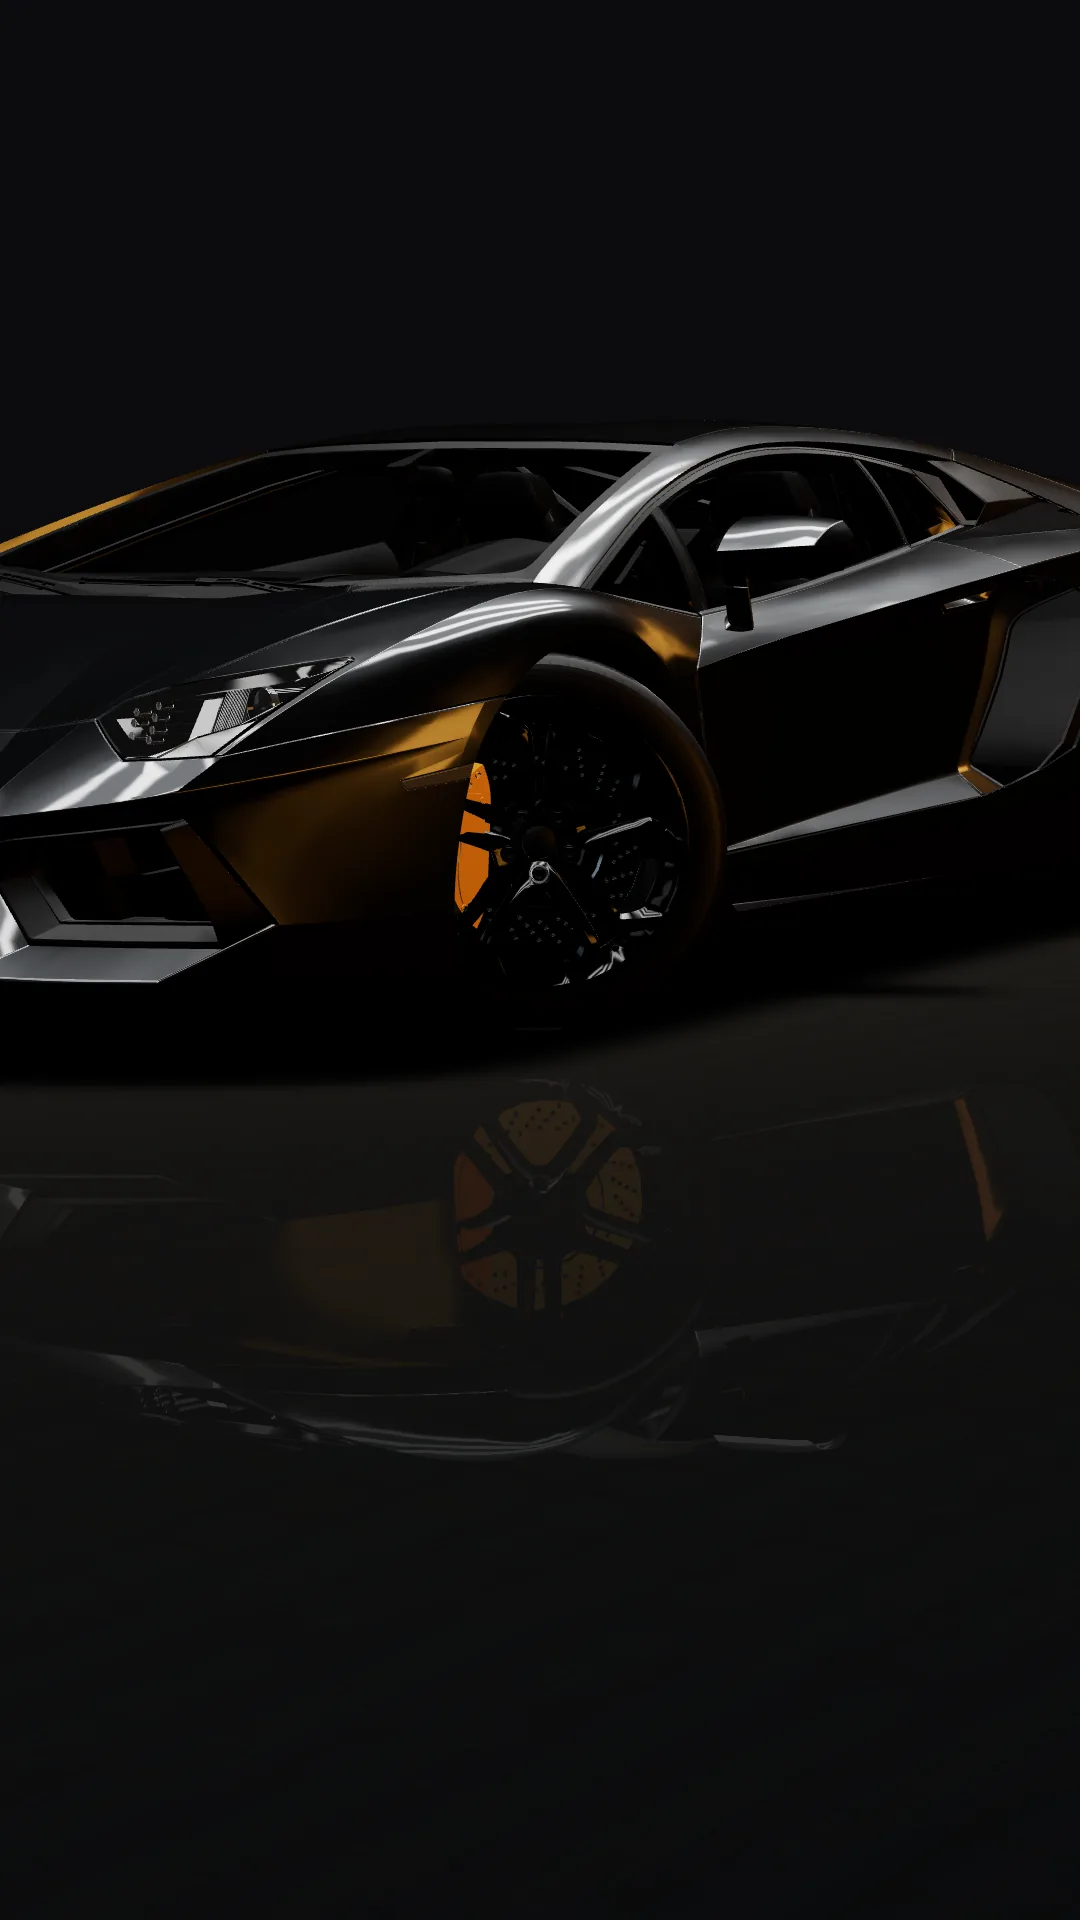
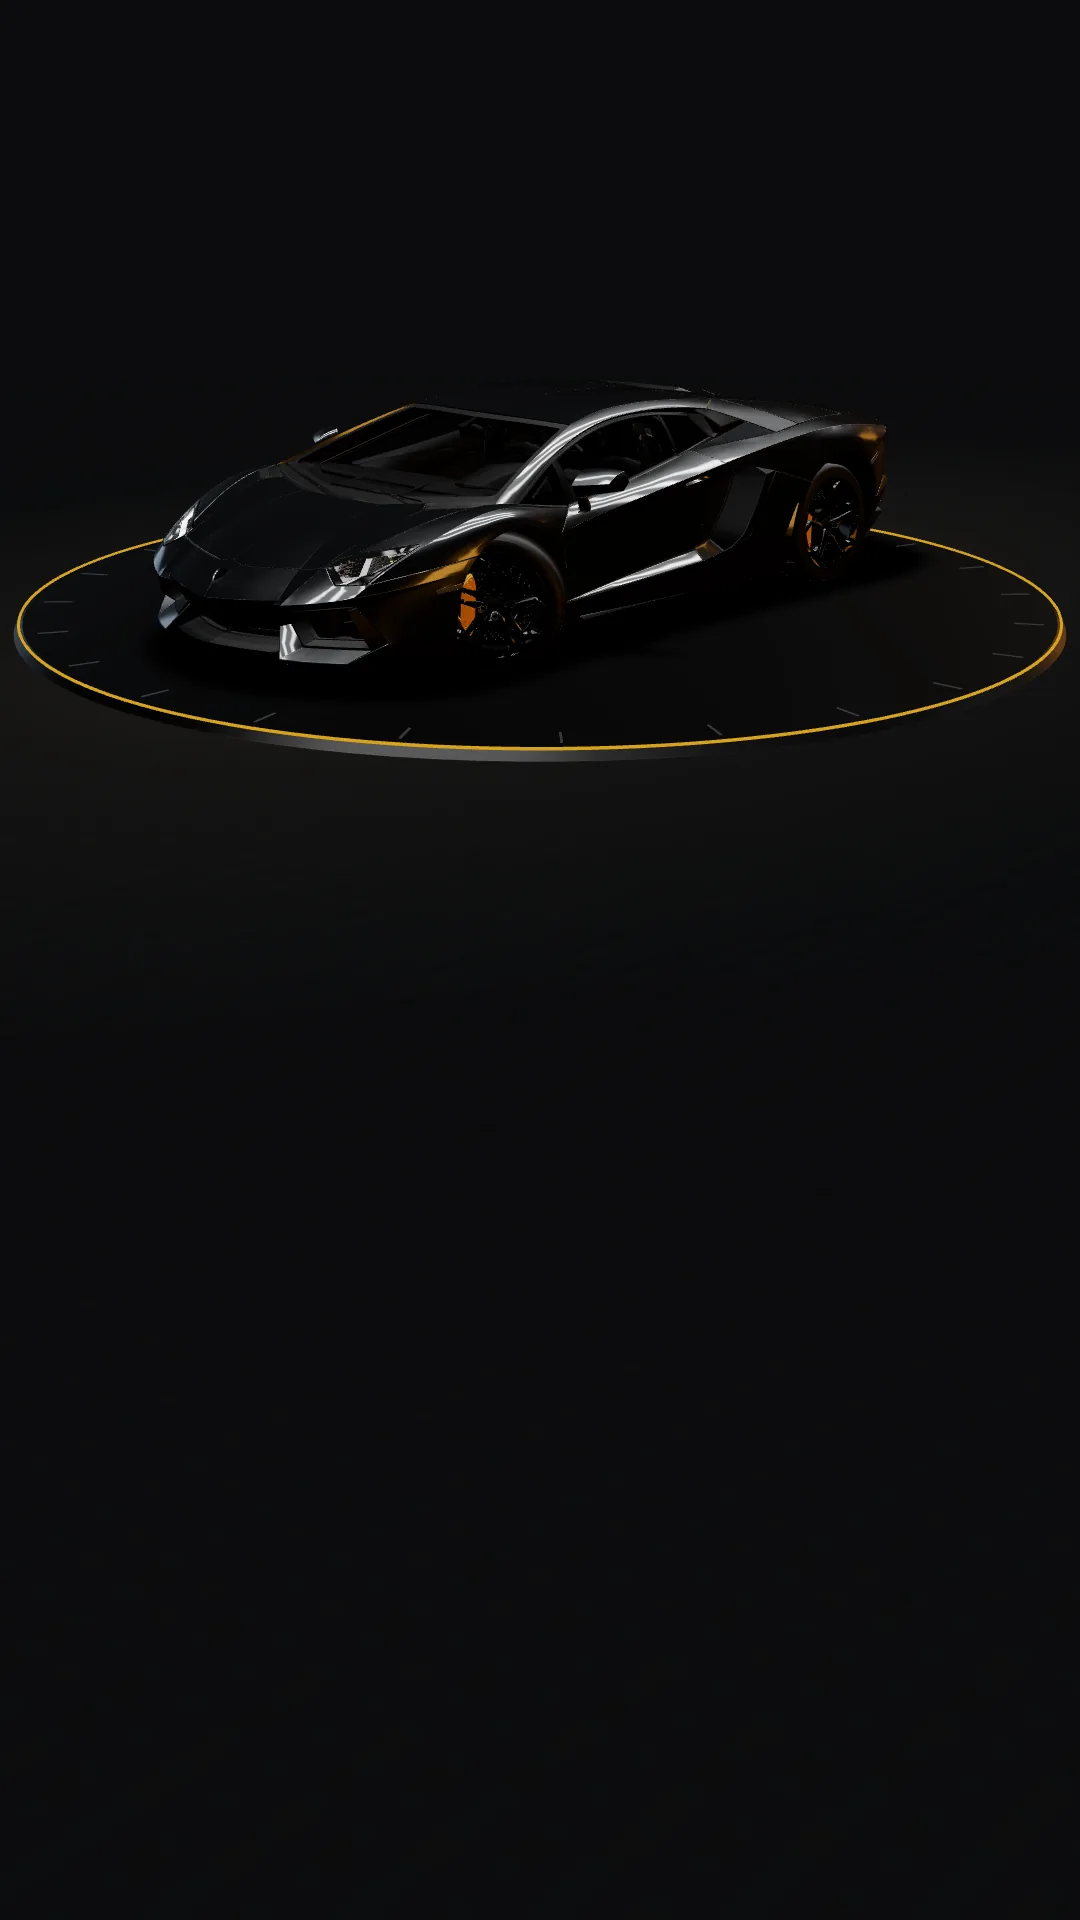
Hero 3D com plataforma giratória e portas em tesoura
O carro gira numa plataforma de showroom (uma volta a cada 30 s) e abre e fecha as
portas em ciclo. Câmera do celular mais afastada, carro acima do título. Imagens de
abertura renderizadas de novo para coincidir com o enquadramento do 3D.

Claude-Session: https://claude.ai/code/session_01DeJyWLWaZDcy7MwLK6b82M

diff --git a/index.html b/index.html
@@ -563,7 +563,8 @@ p { margin: 0; }
 } }
 </script>
 <script type="module">
-// Live 3D hero. The rendered poster image stays underneath until the first 3D frame is ready.
+// Live 3D hero: the car turns on a showroom turntable and opens its scissor doors in a loop.
+// The rendered poster image stays underneath until the first 3D frame is ready.
 import * as THREE from "three";
 import { GLTFLoader } from "three/addons/loaders/GLTFLoader.js";
 import { DRACOLoader } from "three/addons/loaders/DRACOLoader.js";
@@ -574,16 +575,76 @@ const hero = document.getElementById("inicio");
 const small = () => innerWidth <= 760;
 if (canvas && !matchMedia("(prefers-reduced-motion: reduce)").matches) { try { start(); } catch (e) { /* the poster image stays */ } }
 
+// Splits the "Obj_Side_Doors" node into a left and a right door hung on hinges.
+// Everything is baked into the car root's own space (x = length, y = up, z = width),
+// so the split and the hinge do not depend on how the node was exported.
+// Scissor doors swing up around a lateral axis near the front of the door, tilting slightly outward.
+function makeDoors(THREE, root) {
+  const node = root.getObjectByName("Obj_Side_Doors");
+  if (!node) return null;
+  const parts = [];
+  node.traverse((o) => { if (o.isMesh) parts.push(o); });
+  if (!parts.length) return null;
+  root.updateMatrixWorld(true);
+  const rootInv = root.matrixWorld.clone().invert();
+  const baked = parts.map((p) => ({ geo: p.geometry.clone().applyMatrix4(rootInv.clone().multiply(p.matrixWorld)), mat: p.material, order: p.renderOrder }));
+
+  function split(g, sign) {
+    const pos = g.attributes.position, idx = g.index ? g.index.array : null;
+    const n = idx ? idx.length : pos.count;
+    const groups = g.groups.length ? g.groups : [{ start: 0, count: n, materialIndex: 0 }];
+    const out = [], ng = [];
+    for (const gr of groups) {
+      const start = out.length;
+      for (let k = gr.start; k < gr.start + gr.count; k += 3) {
+        const a = idx ? idx[k] : k, b = idx ? idx[k + 1] : k + 1, c = idx ? idx[k + 2] : k + 2;
+        if (Math.sign(pos.getZ(a) + pos.getZ(b) + pos.getZ(c)) === sign) out.push(a, b, c);
+      }
+      if (out.length > start) ng.push({ start, count: out.length - start, materialIndex: gr.materialIndex });
+    }
+    const geo = new THREE.BufferGeometry();
+    for (const name in g.attributes) geo.setAttribute(name, g.attributes[name]);
+    geo.setIndex(out);
+    ng.forEach((x) => geo.addGroup(x.start, x.count, x.materialIndex));
+    geo.computeBoundingBox(); geo.computeBoundingSphere();
+    return geo;
+  }
+
+  const bb = new THREE.Box3();
+  for (const b of baked) { b.geo.computeBoundingBox(); bb.union(b.geo.boundingBox); }
+  const hinge = new THREE.Vector3(bb.min.x + (bb.max.x - bb.min.x) * 0.04, bb.min.y + (bb.max.y - bb.min.y) * 0.6, 0);
+
+  const doors = [];
+  for (const sign of [1, -1]) {
+    const pivot = new THREE.Object3D();
+    pivot.position.copy(hinge);
+    for (const b of baked) {
+      const m = new THREE.Mesh(split(b.geo, sign), b.mat);
+      m.position.copy(hinge).negate();
+      m.renderOrder = b.order;
+      pivot.add(m);
+    }
+    root.add(pivot);
+    doors.push({ pivot, sign });
+  }
+  node.visible = false;
+  return {
+    hinge, bounds: bb,
+    set(t) { // 0 closed .. 1 open
+      const e = t * t * (3 - 2 * t);
+      for (const d of doors) d.pivot.rotation.set(0.14 * d.sign * e, 0, 1.12 * e);
+    },
+  };
+}
+
 function start() {
 const renderer = new THREE.WebGLRenderer({ canvas, antialias: true, powerPreference: "high-performance" });
-
 renderer.setPixelRatio(Math.min(devicePixelRatio, small() ? 1.25 : 1.5));
 renderer.toneMapping = THREE.ACESFilmicToneMapping;
 renderer.toneMappingExposure = 1.35;
 
-const BG = new THREE.Color("#0b0c0d");
 const scene = new THREE.Scene();
-scene.background = BG;
+scene.background = new THREE.Color("#0b0c0d");
 
 function studioEnv() {
   const env = new THREE.Scene();
@@ -612,13 +673,14 @@ function radial(stops, size = 512) {
   stops.forEach(([o, col]) => gr.addColorStop(o, col)); g.fillStyle = gr; g.fillRect(0, 0, size, size);
   const t = new THREE.CanvasTexture(c); t.colorSpace = THREE.SRGBColorSpace; return t;
 }
-if (!small()) {
+const mobile = small();
+if (!mobile) {
   const mirror = new Reflector(new THREE.CircleGeometry(30, 96), { color: 0x6a6a6a, textureWidth: 1024, textureHeight: 1024, clipBias: 0.003 });
   mirror.rotation.x = -Math.PI / 2; scene.add(mirror);
 }
 const veil = new THREE.Mesh(new THREE.CircleGeometry(30, 96), new THREE.MeshBasicMaterial({
-  map: small() ? radial([[0, "rgba(24,22,20,1)"], [0.4, "rgba(14,14,15,1)"], [1, "rgba(11,12,13,1)"]])
-               : radial([[0, "rgba(11,12,13,0.78)"], [0.16, "rgba(11,12,13,0.87)"], [0.4, "rgba(11,12,13,1)"], [1, "rgba(11,12,13,1)"]]),
+  map: mobile ? radial([[0, "rgba(24,22,20,1)"], [0.4, "rgba(14,14,15,1)"], [1, "rgba(11,12,13,1)"]])
+              : radial([[0, "rgba(11,12,13,0.78)"], [0.16, "rgba(11,12,13,0.87)"], [0.4, "rgba(11,12,13,1)"], [1, "rgba(11,12,13,1)"]]),
   transparent: true, depthWrite: false, toneMapped: false }));
 veil.rotation.x = -Math.PI / 2; veil.position.y = 0.002; scene.add(veil);
 const pool = new THREE.Mesh(new THREE.PlaneGeometry(14, 9), new THREE.MeshBasicMaterial({
@@ -626,11 +688,24 @@ const pool = new THREE.Mesh(new THREE.PlaneGeometry(14, 9), new THREE.MeshBasicM
   transparent: true, depthWrite: false, blending: THREE.AdditiveBlending, toneMapped: false }));
 pool.rotation.x = -Math.PI / 2; pool.position.y = 0.004; scene.add(pool);
 
+// showroom turntable: dark disc with a thin amber edge
+const stage = new THREE.Group(); scene.add(stage);
+const disc = new THREE.Mesh(new THREE.CylinderGeometry(2.85, 2.9, 0.05, 96), new THREE.MeshStandardMaterial({ color: 0x121314, metalness: 0.6, roughness: 0.35 }));
+disc.position.y = 0.025; stage.add(disc);
+const ring = new THREE.Mesh(new THREE.TorusGeometry(2.87, 0.008, 8, 160), new THREE.MeshBasicMaterial({ color: new THREE.Color("#f2a400").multiplyScalar(0.55) }));
+ring.rotation.x = Math.PI / 2; ring.position.y = 0.052; stage.add(ring);
+const marks = new THREE.Group();
+for (let i = 0; i < 24; i++) {
+  const tick = new THREE.Mesh(new THREE.BoxGeometry(0.16, 0.004, 0.012), new THREE.MeshBasicMaterial({ color: 0x3a3b3d }));
+  const a = (i / 24) * Math.PI * 2; tick.position.set(Math.cos(a) * 2.7, 0.052, Math.sin(a) * 2.7); tick.rotation.y = -a; marks.add(tick);
+}
+stage.add(marks);
+
 const camera = new THREE.PerspectiveCamera(27, 1, 0.05, 120);
-// framing that matches the poster renders: [distance, height, azimuth, look, fov, view shift]
+// desktop matches the poster render; phone sits farther back so the whole car and turntable fit
 const FRAME = {
-  wide: { pos: new THREE.Vector3(-5.0, 0.62, 3.35), look: new THREE.Vector3(0.15, 0.5, 0), fov: 27, shift: [-0.13, 0.03] },
-  tall: { pos: new THREE.Vector3(-5.9, 0.95, 4.4), look: new THREE.Vector3(-0.1, 0.45, 0), fov: 34, shift: [0, 0.12] },
+  wide: { pos: new THREE.Vector3(-5.0, 0.62, 3.35), look: new THREE.Vector3(0.15, 0.5, 0), fov: 27, shift: [-0.22, 0.03] },
+  tall: { pos: new THREE.Vector3(-9.08, 3.0, 8.47), look: new THREE.Vector3(0, 0.4, 0), fov: 46, shift: [0, 0.22] },
 };
 let F = FRAME.wide, baseR = 0, baseAz = 0;
 function resize() {
@@ -639,7 +714,7 @@ function resize() {
   renderer.setSize(w, h, false);
   F = small() ? FRAME.tall : FRAME.wide;
   const d = F.pos.clone().sub(F.look);
-  baseR = Math.hypot(d.x, d.z); baseAz = Math.atan2(d.z, d.x);
+  baseR = Math.hypot(d.x, d.z) * (small() ? 1 : 1.22); baseAz = Math.atan2(d.z, d.x);
   camera.fov = F.fov; camera.aspect = w / h;
   camera.setViewOffset(w, h, F.shift[0] * w, F.shift[1] * h, w, h);
   camera.updateProjectionMatrix();
@@ -650,6 +725,7 @@ const paint = new THREE.MeshPhysicalMaterial({ color: "#2b2e31", metalness: 0.75
 const alloy = new THREE.MeshPhysicalMaterial({ color: "#0a0a0a", metalness: 0.9, roughness: 0.2, clearcoat: 0.6 });
 const caliper = new THREE.MeshStandardMaterial({ color: "#f2a400", metalness: 0.25, roughness: 0.35 });
 const lamps = [];
+let doors = null;
 
 const draco = new DRACOLoader();
 draco.setDecoderPath("https://cdn.jsdelivr.net/npm/three@0.170.0/examples/jsm/libs/draco/gltf/");
@@ -658,7 +734,7 @@ const loader = new GLTFLoader(); loader.setDRACOLoader(draco);
 let ready = false, visible = true, shownAt = 0;
 loader.load("/car.glb", (gltf) => {
   const m = gltf.scene; const S = 0.176;
-  m.scale.setScalar(S); m.position.x = 0.6 * S;
+  m.scale.setScalar(S); m.position.set(0.6 * S, 0.05, 0);
   m.traverse((o) => {
     if (!o.isMesh) return;
     const mats = Array.isArray(o.material) ? o.material : [o.material];
@@ -682,29 +758,44 @@ loader.load("/car.glb", (gltf) => {
     if (/^Obj_(Rim_T0A|Tyre|DiscRotor|WheelHub|Caliper)_F[LR]$/.test(o.name))
       o.quaternion.premultiply(new THREE.Quaternion().setFromAxisAngle(new THREE.Vector3(0, 1, 0), -0.3));
   });
-  scene.add(m);
+  stage.add(m);
+  try { doors = makeDoors(THREE, m); } catch (e) { doors = null; }
   resize();
   renderer.render(scene, camera);
   ready = true; shownAt = performance.now();
   requestAnimationFrame(() => { canvas.classList.add("on"); document.getElementById("badge3d")?.classList.add("on"); });
 }, undefined, () => {}); // on failure the poster image simply stays
 
-// pointer and scroll drive the camera a little; a slow drift keeps it alive
 let px = 0, py = 0, tx = 0, ty = 0;
 addEventListener("pointermove", (e) => { tx = e.clientX / innerWidth - 0.5; ty = e.clientY / innerHeight - 0.5; }, { passive: true });
 if ("IntersectionObserver" in window) new IntersectionObserver((es) => { visible = es[0].isIntersecting; }).observe(hero);
 
-const clock = new THREE.Clock();
+// choreography, in seconds after the 3D appears
+const SPIN = (Math.PI * 2) / 30;   // one full turn every 30 s
+const CYCLE = 14;                  // doors: open at 3 s, hold, close at 9 s, repeat
+function doorState(t) {
+  const k = ((t % CYCLE) + CYCLE) % CYCLE;
+  if (k < 3) return 0;
+  if (k < 4.6) return (k - 3) / 1.6;
+  if (k < 9) return 1;
+  if (k < 10.6) return 1 - (k - 9) / 1.6;
+  return 0;
+}
+let angle = 0, last = performance.now();
 renderer.setAnimationLoop(() => {
+  const now = performance.now();
+  const dt = Math.min((now - last) / 1000, 0.05); last = now;
   if (!ready || !visible || document.hidden) return;
-  const t = clock.getElapsedTime();
-  px += (tx - px) * 0.04; py += (ty - py) * 0.04;
+  const t = (now - shownAt) / 1000;
+  const ramp = Math.min(t / 2.5, 1);
+  angle += SPIN * dt * ramp * ramp;
+  stage.rotation.y = angle;
+  if (doors) doors.set(doorState(t - 0.5));
+  px += (tx - px) * 0.05; py += (ty - py) * 0.05;
   const scroll = Math.min(scrollY / innerHeight, 1);
-  const intro = Math.min((performance.now() - shownAt) / 2600, 1);
-  const ease = intro * intro * (3 - 2 * intro);
-  const az = baseAz + Math.sin(t * 0.18) * 0.1 * ease - px * 0.22 - scroll * 0.55;
-  const r = baseR * (small() ? 1 : 1.08) * (1 - 0.03 * ease) * (1 + scroll * 0.08);
-  camera.position.set(F.look.x + Math.cos(az) * r, F.pos.y + py * -0.18 + scroll * 0.5, F.look.z + Math.sin(az) * r);
+  const az = baseAz - px * 0.25 - scroll * 0.35;
+  const r = baseR * (1 + scroll * 0.1);
+  camera.position.set(F.look.x + Math.cos(az) * r, F.pos.y + py * -0.2 + scroll * 0.6, F.look.z + Math.sin(az) * r);
   camera.lookAt(F.look);
   for (const l of lamps) l.emissiveIntensity = 2.6 + Math.sin(t * 1.4) * 0.25;
   renderer.render(scene, camera);
